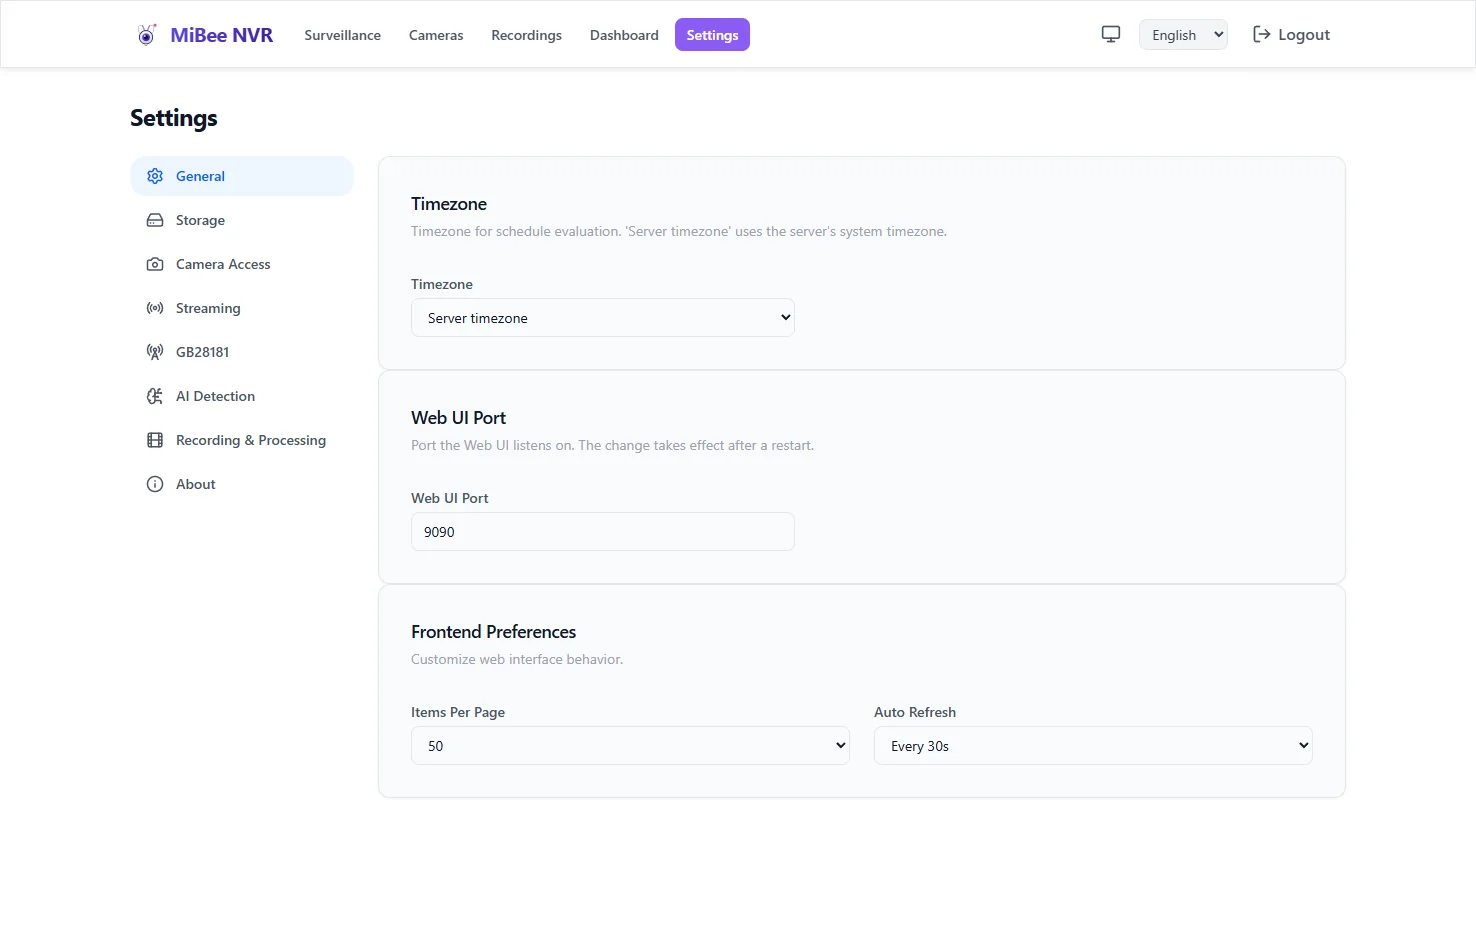
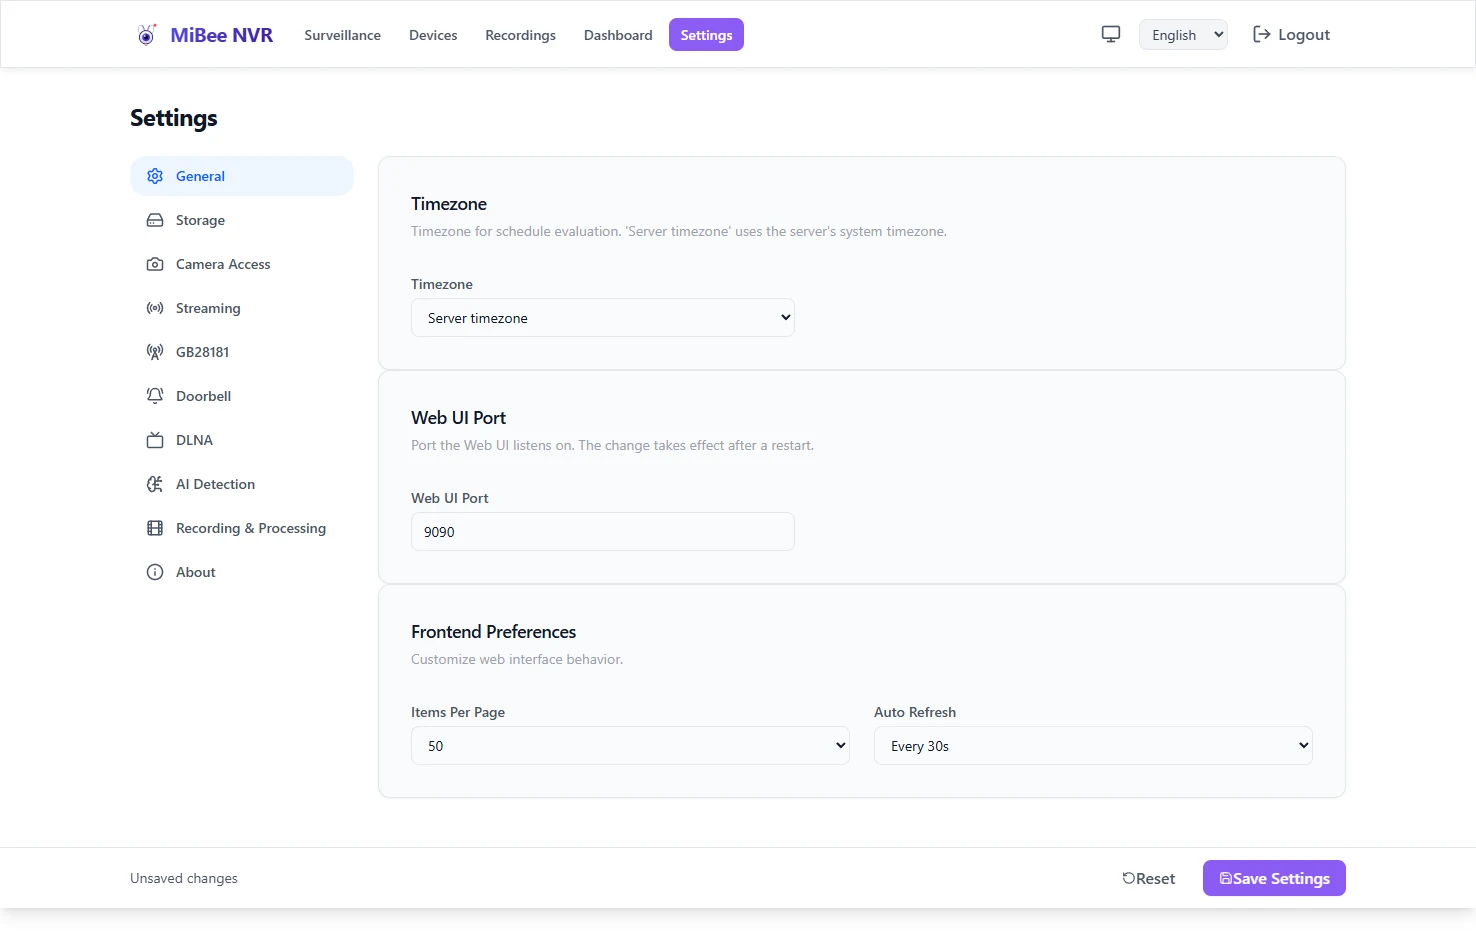
docs: refresh screenshots + walkthrough card image, mark TCP invite defect fixed
- gb28181 guide: settings card re-shot against the current UI (realm label,
  channel-numbering rule, cascade form), walkthrough gains the enrolled-card
  screenshot between the verification steps, and the TCP transport pitfall
  is updated to fixed status (#1058, library fix gb28181-go#145 shipping
  with v0.14)
- cameras page image re-shot for the devices-page redesign (groups + tag
  filter + audio pickups); settings-general for the new doorbell/DLNA panels
- all re-shot images DOM-redacted against a live instance (generic names,
  fake LAN IPs, placeholder live tiles)

diff --git a/docs/en/gb28181-guide.md b/docs/en/gb28181-guide.md
@@ -97,7 +97,7 @@ Path: **Configuration → Network → Device Access → GB28181**.
 | Field | Value | Notes |
 |---|---|---|
 | Enable | On | |
-| Transport | **UDP** | TCP has a known media defect — see "Pitfalls" below |
+| Transport | UDP or TCP | Both work; on older NVR versions TCP invites had a defect (see "Pitfalls") — start with UDP there |
 | SIP server ID | NVR's `gb28181.server_id` (e.g. `34020000002000000001`) | |
 | SIP server domain | NVR's `gb28181.realm` (e.g. `3402000000`) | |
 | SIP server address | NVR host IP | |
@@ -114,6 +114,9 @@ After saving, the camera REGISTERs to the NVR (Digest auth). Nothing to add manu
 
 1. NVR logs show `device registered` → `catalog received` → `session created` → `first RTP received — session confirmed`;
 2. The camera appears in the camera list and starts recording, with rolling segments landing on disk;
+
+![Enrolled camera card on the devices page](images/gb28181-hikvision-cameras.webp)
+
 3. Opening the camera's live page shows the picture.
 
 ![Enrolled: NVR live view](images/gb28181-hikvision-liveview.webp)
@@ -122,7 +125,7 @@ After saving, the camera REGISTERs to the NVR (Digest auth). Nothing to add manu
 
 - **Factory clock is stuck in the past**: set the time first (web UI "Configuration → System → Time", or `PUT /ISAPI/System/time`);
 - **UDP mode starts with STUN probes** aimed at port 5060: normal NAT probing — the NVR not answering does not affect the subsequent registration; don't misread STUN packets as a protocol failure;
-- **Choosing TCP breaks on-demand streaming** (known limitation, [#1058](https://github.com/Mi-Bee-Studio/MiBeeNvr/issues/1058); library fix [gb28181-go#145](https://github.com/mickeyzzc/gb28181-go/pull/145) submitted): after a TCP registration the platform's INVITE used to leave via UDP aimed at the device's TCP source port, so the device never saw it and the media session rebuilt in a ~32s loop (log signature: INVITE unanswered, repeated `packets_received=0`). **Use UDP until the fix ships**;
+- **Choosing TCP breaks on-demand streaming** (fixed, [#1058](https://github.com/Mi-Bee-Studio/MiBeeNvr/issues/1058); library fix [gb28181-go#145](https://github.com/mickeyzzc/gb28181-go/pull/145)): after a TCP registration the platform's INVITE used to leave via UDP aimed at the device's TCP source port, so the device never saw it and the media session rebuilt in a ~32s loop (log signature: INVITE unanswered, repeated `packets_received=0`). The fix ships with v0.14; on earlier versions switch the camera back to UDP;
 - **GB/T 28181-2022 works as-is**: the Hikvision 2022 mode (`x_gb_ver=3.0`) interops fully (register/catalog/INVITE/PS) — no need to downgrade to 2016;
 - **First-login "change password" nag**: cancel it; it doesn't block configuration.
 

diff --git a/docs/zh/gb28181-guide.md b/docs/zh/gb28181-guide.md
@@ -97,7 +97,7 @@ cameras:
 | 字段 | 填写 | 说明 |
 |---|---|---|
 | 启用 | 打开 | |
-| 传输协议 | **UDP** | TCP 模式当前有媒体接收缺陷，见下方「常见坑」 |
+| 传输协议 | UDP 或 TCP | 两者皆可；较旧版本的 NVR 上 TCP 点播有缺陷（见「常见坑」），可先用 UDP |
 | SIP 服务器 ID | NVR 的 `gb28181.server_id`（示例 `34020000002000000001`） | |
 | SIP 服务器域 | NVR 的 `gb28181.realm`（示例 `3402000000`） | |
 | SIP 服务器地址 | NVR 主机 IP | |
@@ -114,6 +114,9 @@ cameras:
 
 1. NVR 日志依次出现 `device registered` → `catalog received` → `session created` → `first RTP received — session confirmed`；
 2. 摄像头列表出现新相机并进入录制状态，滚动录像段落开始落盘；
+
+![摄像头管理页的入册卡片](images/gb28181-hikvision-cameras.webp)
+
 3. 打开该相机的直播页即可看到画面。
 
 ![接入完成：NVR 直播页](images/gb28181-hikvision-liveview.webp)
@@ -122,7 +125,7 @@ cameras:
 
 - **出厂时钟停在很久以前**：先校时（网页「配置 → 系统 → 时间」，或 `PUT /ISAPI/System/time`），避免依赖时间的功能异常；
 - **UDP 模式启动时先发 STUN 探测包**（目标为 5060 端口）：这是正常的 NAT 探测行为，NVR 不应答也不影响随后的注册——抓包看到 STUN 不要误判为协议不通；
-- **传输协议选 TCP 时点播失败**（已知限制，[#1058](https://github.com/Mi-Bee-Studio/MiBeeNvr/issues/1058)，库修复 [gb28181-go#145](https://github.com/mickeyzzc/gb28181-go/pull/145) 已提交）：设备经 TCP 注册后，NVR 发出的 INVITE 曾按 UDP 发往设备的 TCP 源端口，设备永远收不到请求，媒体会话每约 32 秒循环重建（日志特征：INVITE unanswered、`packets_received=0` 反复出现）。**修复合入发布前请使用 UDP**；
+- **传输协议选 TCP 时点播失败**（已修复，[#1058](https://github.com/Mi-Bee-Studio/MiBeeNvr/issues/1058)，库修复 [gb28181-go#145](https://github.com/mickeyzzc/gb28181-go/pull/145)）：设备经 TCP 注册后，NVR 发出的 INVITE 曾按 UDP 发往设备的 TCP 源端口，设备永远收不到请求，媒体会话每约 32 秒循环重建（日志特征：INVITE unanswered、`packets_received=0` 反复出现）。修复随 v0.14 起生效；更早版本上遇到此现象请把相机传输协议切回 UDP；
 - **GB/T 28181-2022 模式可直接使用**：实测海康 2022 模式（`x_gb_ver=3.0`）的注册/目录/INVITE/PS 流与本 NVR 完全互操作，无需降级到 2016 模式；
 - **固件首次登录强制弹「修改密码」**：点取消即可，不影响后续配置。
 
